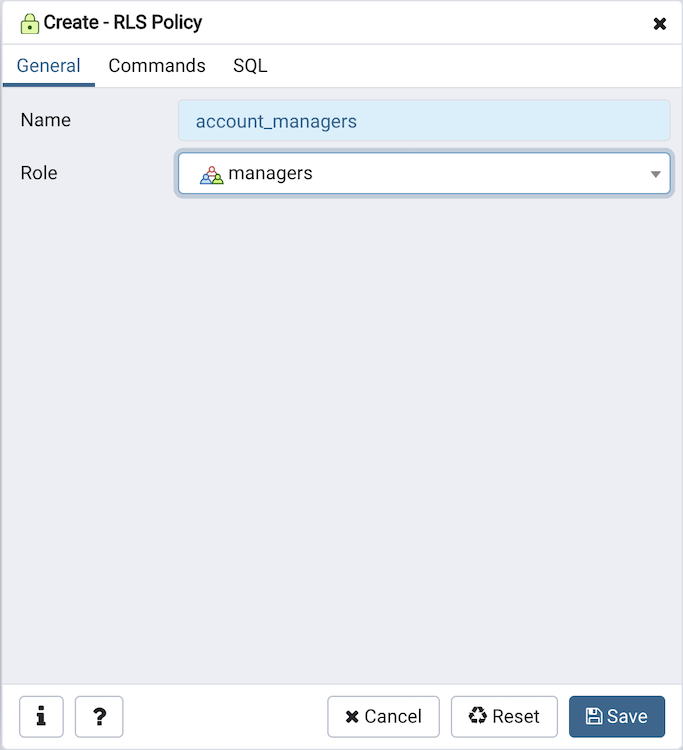
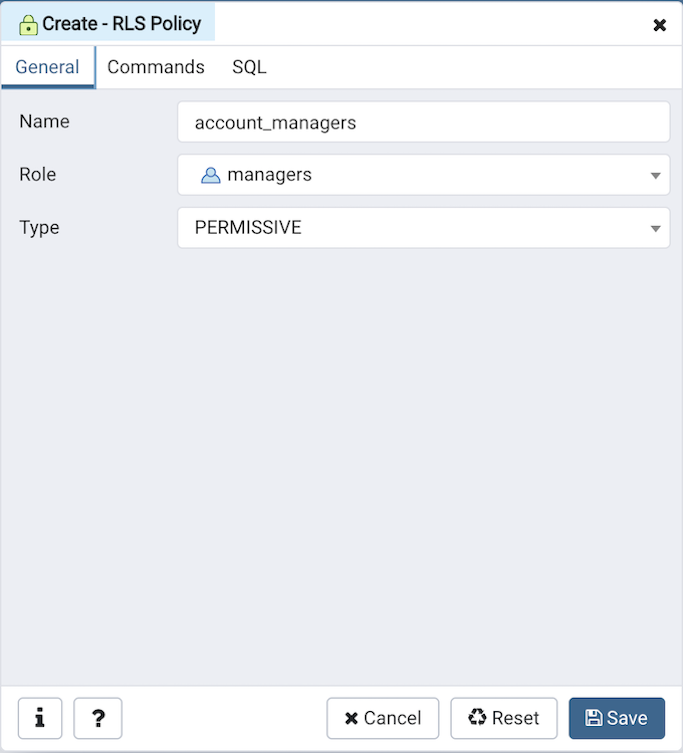
Added support for permissive/restricted policy type while creating RLS Policy. Fixes #5622

diff --git a/web/pgadmin/browser/server_groups/servers/databases/schemas/tables/row_security_policies/static/js/row_security_policy.js b/web/pgadmin/browser/server_groups/servers/databases/schemas/tables/row_security_policies/static/js/row_security_policy.js
@@ -84,6 +84,7 @@ define('pgadmin.node.row_security_policy', [
           using_orig: undefined,
           withcheck: undefined,
           withcheck_orig: undefined,
+          type:'PERMISSIVE',
         },
         schema: [{
           id: 'name', label: gettext('Name'), cell: 'string',
@@ -148,7 +149,29 @@ define('pgadmin.node.row_security_policy', [
             });
             return res;
           },
-        }],
+        },
+        {
+          id: 'type', label: gettext('Type'), control: 'select2', deps:['type'],
+          type: 'text',readonly: function(m) {
+            return !m.isNew();},
+          select2: {
+            width: '100%',
+            allowClear: false,
+          },
+          options:[
+            {label: 'PERMISSIVE', value: 'PERMISSIVE'},
+            {label: 'RESTRICTIVE', value: 'RESTRICTIVE'},
+          ],
+          visible: function(m) {
+            if(!_.isUndefined(m.node_info) && !_.isUndefined(m.node_info.server)
+              && !_.isUndefined(m.node_info.server.version) &&
+                m.node_info.server.version >= 100000)
+              return true;
+
+            return false;
+          },
+        },
+        ],
         validate: function(keys) {
           var msg;
           this.errorModel.clear();

diff --git a/web/pgadmin/browser/server_groups/servers/databases/schemas/tables/row_security_policies/__init__.py b/web/pgadmin/browser/server_groups/servers/databases/schemas/tables/row_security_policies/__init__.py
@@ -413,12 +413,10 @@ class RowSecurityView(PGChildNodeView):
             request.data, encoding='utf-8'
         )
         try:
-            sql, name = row_security_policies_utils.get_sql(self.conn, data,
-                                                            did, scid,
-                                                            tid, plid,
-                                                            self.datlastsysoid,
-                                                            self.schema,
-                                                            self.table)
+            sql, name = row_security_policies_utils.get_sql(
+                self.conn, data=data, scid=scid, plid=plid,
+                schema=self.schema, table=self.table)
+
             # Most probably this is due to error
             if not isinstance(sql, str):
                 return sql
@@ -439,7 +437,7 @@ class RowSecurityView(PGChildNodeView):
             return internal_server_error(errormsg=str(e))
 
     @check_precondition
-    def delete(self, gid, sid, did, scid, tid, plid=None, only_sql=False):
+    def delete(self, gid, sid, did, scid, tid, **kwargs):
         """
         This function will drop the policy object
         :param plid: policy id
@@ -448,8 +446,12 @@ class RowSecurityView(PGChildNodeView):
         :param gid: group id
         :param tid: table id
         :param scid: Schema ID
+        :param kwargs
         :return:
         """
+        plid = kwargs.get('plid', None)
+        only_sql = kwargs.get('only_sql', False)
+
         # Below will deplide if it's simple drop or drop with cascade call
         if self.cmd == 'delete':
             # This is a cascade operation
@@ -517,11 +519,9 @@ class RowSecurityView(PGChildNodeView):
         """
         data = dict(request.args)
 
-        sql, name = row_security_policies_utils.get_sql(self.conn, data, did,
-                                                        scid, tid, plid,
-                                                        self.datlastsysoid,
-                                                        self.schema,
-                                                        self.table)
+        sql, name = row_security_policies_utils.get_sql(
+            self.conn, data=data, scid=scid, plid=plid,
+            schema=self.schema, table=self.table)
         if not isinstance(sql, str):
             return sql
         sql = sql.strip('\n').strip(' ')
@@ -548,8 +548,8 @@ class RowSecurityView(PGChildNodeView):
         """
 
         SQL = row_security_policies_utils.get_reverse_engineered_sql(
-            self.conn, self.schema, self.table, did, scid, tid, plid,
-            self.datlastsysoid)
+            self.conn, schema=self.schema, table=self.table, scid=scid,
+            plid=plid, datlastsysoid=self.datlastsysoid)
 
         return ajax_response(response=SQL)
 
@@ -600,12 +600,11 @@ class RowSecurityView(PGChildNodeView):
         :param kwargs
         :return:
         """
-        gid = kwargs.get('gid')
         sid = kwargs.get('sid')
         did = kwargs.get('did')
         scid = kwargs.get('scid')
         tid = kwargs.get('tid')
-        oid = kwargs.get('oid')
+        oid = kwargs.get('plid')
         data = kwargs.get('data', None)
         diff_schema = kwargs.get('diff_schema', None)
         drop_req = kwargs.get('drop_req', False)
@@ -615,8 +614,8 @@ class RowSecurityView(PGChildNodeView):
             data['schema'] = self.schema
             data['table'] = self.table
             sql, name = row_security_policies_utils.get_sql(
-                self.conn, data, did, scid, tid, oid, self.datlastsysoid,
-                self.schema, self.table)
+                self.conn, data=data, scid=scid, plid=oid,
+                schema=self.schema, table=self.table)
 
             sql = sql.strip('\n').strip(' ')
 
@@ -624,10 +623,8 @@ class RowSecurityView(PGChildNodeView):
             schema = diff_schema
 
             sql = row_security_policies_utils.get_reverse_engineered_sql(
-                self.conn, schema,
-                self.table, did, scid, tid, oid,
-                self.datlastsysoid,
-                template_path=None, with_header=False)
+                self.conn, schema=schema, table=self.table, scid=scid,
+                plid=oid, datlastsysoid=self.datlastsysoid, with_header=False)
 
         drop_sql = ''
         if drop_req:
@@ -711,7 +708,7 @@ class RowSecurityView(PGChildNodeView):
             diff_dict = directory_diff(
                 source, target, difference={}
             )
-            if 'event' in diff_dict:
+            if 'event' in diff_dict or 'type' in diff_dict:
                 delete_sql = self.get_sql_from_diff(gid=1,
                                                     sid=tgt_params['sid'],
                                                     did=tgt_params['did'],

diff --git a/web/pgadmin/browser/server_groups/servers/databases/schemas/tables/row_security_policies/utils.py b/web/pgadmin/browser/server_groups/servers/databases/schemas/tables/row_security_policies/utils.py
@@ -61,11 +61,16 @@ def get_parent(conn, tid, template_path=None):
 
 
 @get_template_path
-def get_sql(conn, data, did, scid, tid, plid, datlastsysoid, schema, table,
-            template_path=None):
+def get_sql(conn, **kwargs):
     """
     This function will generate sql from model data
     """
+    data = kwargs.get('data')
+    scid = kwargs.get('scid')
+    plid = kwargs.get('plid')
+    schema = kwargs.get('schema')
+    table = kwargs.get('table')
+    template_path = kwargs.get('template_path', None)
 
     if plid is not None:
         sql = render_template("/".join([template_path, 'properties.sql']),
@@ -94,24 +99,21 @@ def get_sql(conn, data, did, scid, tid, plid, datlastsysoid, schema, table,
 
 
 @get_template_path
-def get_reverse_engineered_sql(conn, schema, table, did, scid, tid, plid,
-                               datlastsysoid,
-                               template_path=None, with_header=True):
+def get_reverse_engineered_sql(conn, **kwargs):
     """
     This function will return reverse engineered sql for specified trigger.
-
-    :param conn: Connection Object
-    :param schema: Schema
-    :param table: Table
-    :param did: DB ID
-    :param tid: Table ID
-    :param plid: Policy ID
-    :param datlastsysoid:
-    :param template_path: Optional template path
-    :param with_header: Optional parameter to decide whether the SQL will be
-     returned with header or not
+    :param conn:
+    :param kwargs:
     :return:
     """
+    schema = kwargs.get('schema')
+    table = kwargs.get('table')
+    scid = kwargs.get('scid')
+    plid = kwargs.get('plid')
+    datlastsysoid = kwargs.get('datlastsysoid')
+    template_path = kwargs.get('template_path', None)
+    with_header = kwargs.get('with_header', True)
+
     SQL = render_template("/".join(
         [template_path, 'properties.sql']), plid=plid, scid=scid)
 
@@ -127,10 +129,9 @@ def get_reverse_engineered_sql(conn, schema, table, did, scid, tid, plid,
     data['schema'] = schema
     data['table'] = table
 
-    SQL, name = get_sql(conn, data, did, scid, tid, None, datlastsysoid,
-                        schema,
-                        table)
-
+    SQL, name = get_sql(conn, data=data, scid=scid, plid=None,
+                        datlastsysoid=datlastsysoid, schema=schema,
+                        table=table)
     if with_header:
         sql_header = u"-- POLICY: {0}\n\n-- ".format(data['name'])
 

diff --git a/docs/en_US/rls_policy_dialog.rst b/docs/en_US/rls_policy_dialog.rst
@@ -20,6 +20,7 @@ Use the fields in the *General* tab to define the RLS Policy:
 
 * Use the *Name* field to add a descriptive name for the RLS Policy. The name will be displayed in the *pgAdmin* tree control.
 * Use the drop-down listbox next to *Role* to select the Role to which the RLS Policy is to be applied.
+* Use the drop-down listbox next to *Type* to select the type of the policy.
 
 Click the *Commands* tab to continue.
 
@@ -31,7 +32,7 @@ Use the fields in the *Commands* tab to define the RLS Policy:
 
 * Use the drop-down listbox next to *Event* to select the command to which policy applies. Valid options are ALL, SELECT, INSERT, UPDATE, and DELETE. Default is ALL.
 * Use the *Using* field to add a SQL conditional expression returning boolean. This expression will be added to queries that refer to the table if row level security is enabled.
-* Use the *With Check* field to add a SQL conditional expression returning boolean. This expression will be used in INSERT and UPDATE queries against the table if row level security is enabled.
+* Use the *With check* field to add a SQL conditional expression returning boolean. This expression will be used in INSERT and UPDATE queries against the table if row level security is enabled.
 
 Click the *SQL* tab to continue.
 

diff --git a/docs/en_US/release_notes_4_24.rst b/docs/en_US/release_notes_4_24.rst
@@ -12,6 +12,7 @@ New features
 | `Issue #5484 <https://redmine.postgresql.org/issues/5484>`_ -  Added support for LDAP authentication with different DN by setting the dedicated user for the LDAP connection.
 | `Issue #5583 <https://redmine.postgresql.org/issues/5583>`_ -  Added support for schema level restriction.
 | `Issue #5601 <https://redmine.postgresql.org/issues/5601>`_ -  Added RLS Policy support in Schema Diff.
+| `Issue #5622 <https://redmine.postgresql.org/issues/5622>`_ -  Added support for permissive/restricted policy type while creating RLS Policy.
 
 Housekeeping
 ************
